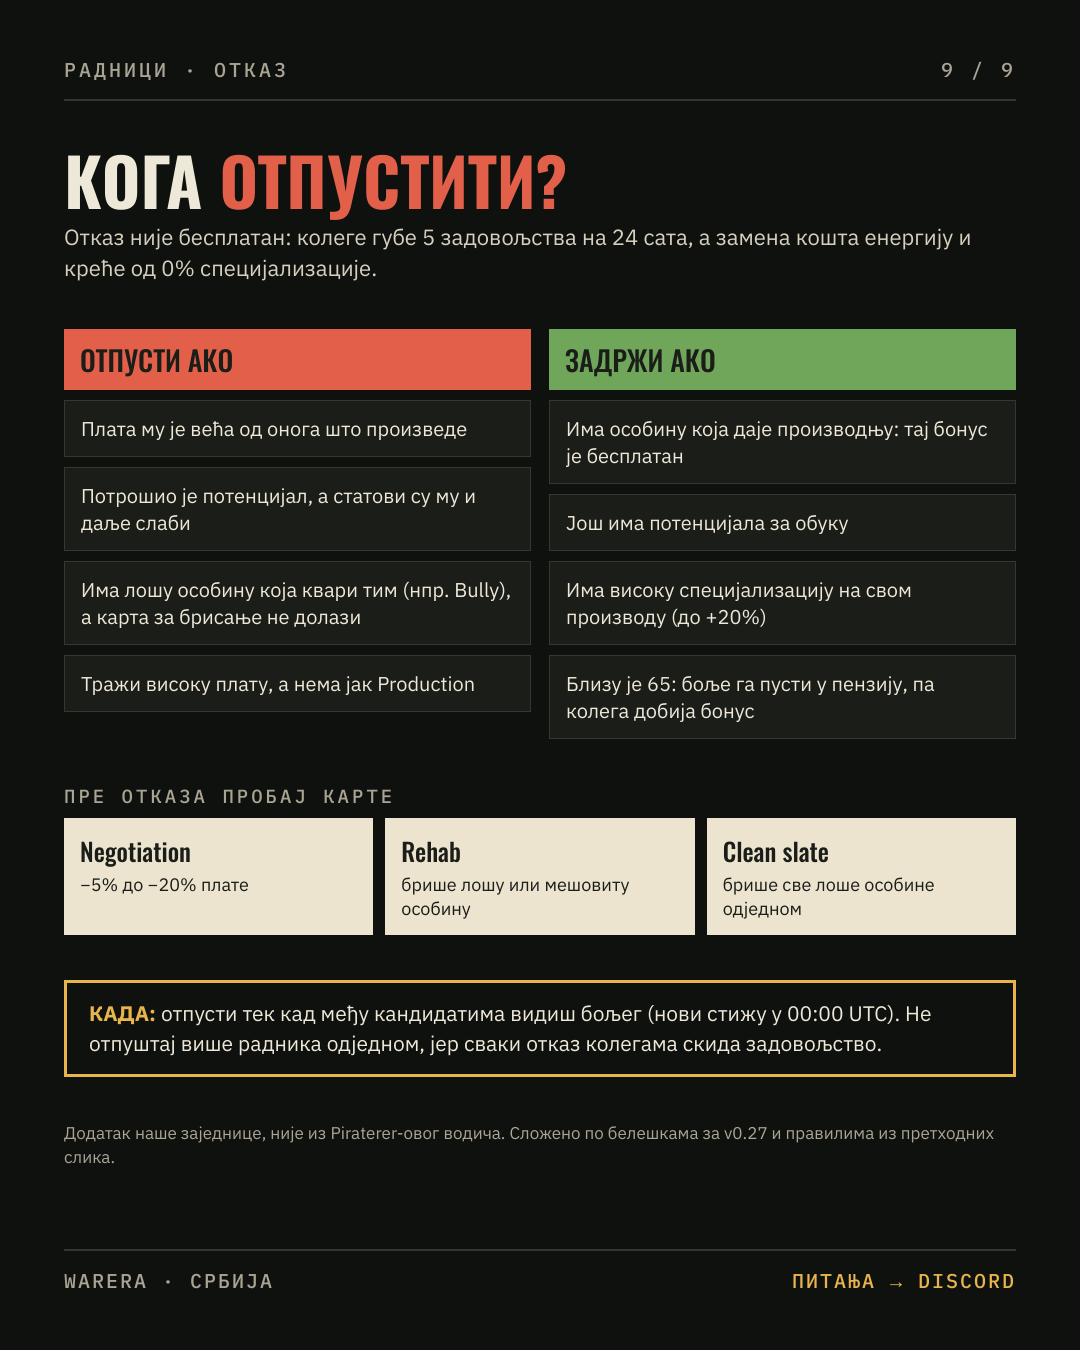
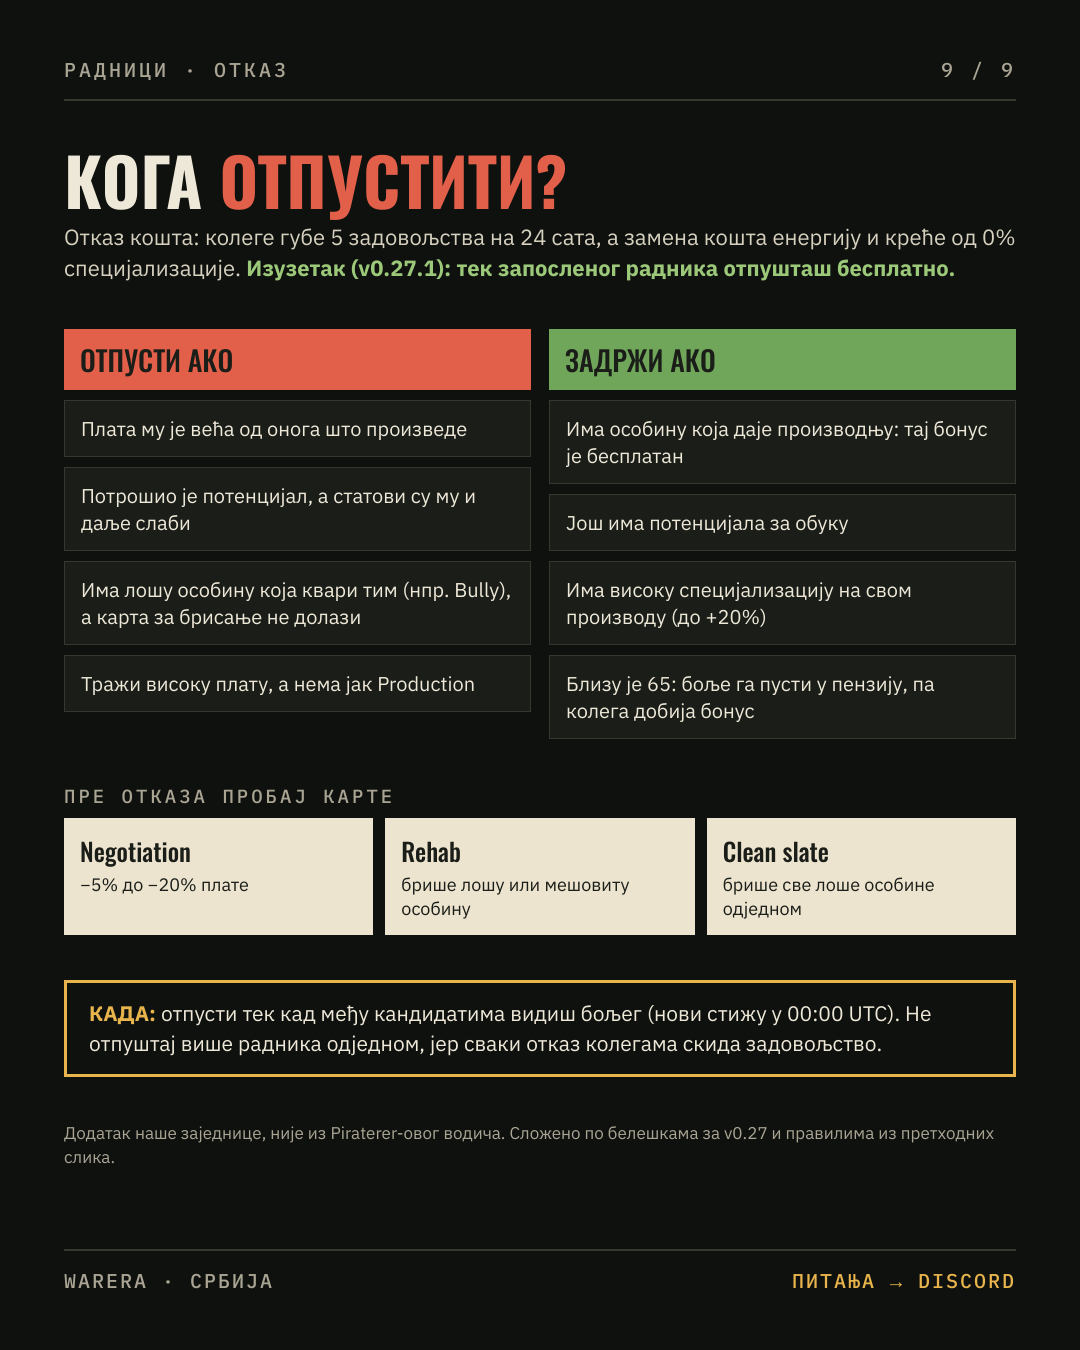
Zakrpa v0.27.1: bez smrti radnika, besplatan otkaz novog radnika
- Smrt radnika u biketama ugašena (delovi 03, 07, članak, slika 8)
- Otkaz tek zaposlenog radnika je besplatan (delovi 03, 04, 09, članak, slika 9)
- Događaji mogu odmah posle zapošljavanja (deo 03)

Claude-Session: https://claude.ai/code/session_01L1BRfphHGAoYFinPfNgA1E

Changed region(s): [[0.0611, 0.1556, 0.9472, 0.2178]]

diff --git a/03-deo-2-2-eko-bild-i-kompanije.md b/03-deo-2-2-eko-bild-i-kompanije.md
@@ -159,11 +159,11 @@
 
 **Управљање:** запослене можете премештати између својих компанија; са премијумом их можете и преименовати.
 
-**Отпуштање:** колеге добијају −5 задовољства на 24 сата.
+**Отпуштање:** колеге добијају −5 задовољства на 24 сата (од v0.27.1 отказ тек запосленог радника је бесплатан).
 
 **Давање отказа:** занемаривање никада не доводи до отказа. Само Ксенофоб (Xenophobe) који ради са другим националностима може да оде када је незадовољан.
 
-**Ризик:** битка у регији запосленог кошта га −5 задовољства и носи **1% ризика од смрти**.
+**Ризик:** битка у регији запосленог кошта га −5 задовољства. Смрт у биткама је угашена закрпом v0.27.1 (за сада).
 
 #### 2.8.9 Производња и задовољство \[v0.27\]
 
@@ -184,7 +184,7 @@
 | Порез на доходак | −1 по 1% пореза (потврђено у игри; белешке пре закрпе наводиле су 0,1) |
 | Премештен у другу компанију | −10 на 7 дана |
 | Колега отпуштен | −5 на 24 сата |
-| Битка у његовој регији | −5 (и 1% ризика од смрти) |
+| Битка у његовој регији | −5 |
 
 Задовољство се може подићи догађајима (2.8.11) и дневном бригом менаџера (+5 на 48 сати).
 
@@ -207,7 +207,7 @@
 - Око 1 дневно са 3 запослена, никада више од 3 дневно.
 - Шансе видите пре избора; Лидерство, задовољство и Срећа их побољшавају.
 - **Игноришите догађај 36 сати** и подразумевана опција се бира уместо вас.
-- Догађаје добијају само запослени запослени пре најмање 48 сати, највише један догађај сваки дневно, и само док се пријављујете бар на сваких 3 дана.
+- Од v0.27.1 догађаји могу да крену одмах после запошљавања (раније после 48 сати). Највише један догађај сваки дневно, и само док се пријављујете бар на сваких 3 дана.
 - Исходи укључују задовољство, бонусе, статистике, особине, кутије са алатом или одлазак запосленог.
 
 #### 2.8.12 Менаџери \[v0.27\]

diff --git a/clanci/radnici-v027.md b/clanci/radnici-v027.md
@@ -203,7 +203,7 @@
 
 ---
 
-## Пензија и смрт
+## Пензија
 
 Са 65 година радник одлази у пензију. Имате три избора:
 
@@ -211,7 +211,7 @@
 • **Пустите га:** један колега добија +1 на стат (на критичном успеху насумичну добру особину), а сви колеге бонус задовољства  
 • **Коцка:** колеге су незадовољне (−5 на 3 дана), али са срећом радник остаје још 10 година, потпуно обучен. Исплати се са високим Luck-ом
 
-Битка у региону где раде носи **1% ризика од смрти** радника.
+Битка у региону где раде више не убија раднике: закрпа v0.27.1 је угасила смрт у биткама (за сада).
 
 ---
 
@@ -231,7 +231,7 @@
 
 *Додатак наше заједнице, није из Piraterer-овог водича. Сложено по белешкама за v0.27 и правилима изнад.*
 
-Отказ није бесплатан: колеге губе **5 задовољства на 24 сата**, а замена кошта енергију и креће од 0% специјализације.
+Отказ кошта: колеге губе **5 задовољства на 24 сата**, а замена кошта енергију и креће од 0% специјализације. **Изузетак од v0.27.1:** тек запосленог радника отпуштате бесплатно, па лош избор одмах исправите.
 
 **Отпустите радника ако:**
 

diff --git a/04-deo-2-3-proizvodnja-trgovina-prestiz.md b/04-deo-2-3-proizvodnja-trgovina-prestiz.md
@@ -92,7 +92,7 @@
 - **Обучавајте свакодневно.** Једно извлачење по запосленом дневно; то је главни начин да их побољшате.
 - **Одговарајте на догађаје у року од 36 сати.** У супротном се подразумевана опција бира уместо вас.
 - **Не дозволите да се складиште напуни.** Пуно складиште зауставља производњу и смањује задовољство.
-- **Не отпуштајте импулсивно.** Колеге губе 5 задовољства на 24 сата.
+- **Не отпуштајте импулсивно.** Колеге губе 5 задовољства на 24 сата (од v0.27.1 отказ тек запосленог радника је бесплатан).
 - **Не премештајте запослене импулсивно.** Премештени запослени губи 10 задовољства на 7 дана.
 - **Пазите на порез.** Сваки 1% пореза на доходак кошта 1 задовољство, па 10% пореза значи око −10% учинка.
 - **Планирајте пензионисање.** Запослени старе 1 годину дневно и траже пензију са 65.

diff --git a/07-deo-3-3-bitke-bonusi-naredjenja.md b/07-deo-3-3-bitke-bonusi-naredjenja.md
@@ -31,7 +31,7 @@
 
 Свака регија може напасти било коју другу регију. Позиција на мапи није важна, нити ко поседује суседне регије, нити да ли је регија повезана са престоницом — једини услов је да борци буду у правој регији. Веза са престоницом важна је само за казну браниоца од −25% (види 3.10.7), а не за право напада.
 
-**\[v0.27\] Запослени и битке:** битка у регији у којој раде ваши запослени кошта их −5 задовољства и носи 1% ризика од смрти. Држање компанија у нашим матичним регијама, далеко од фронта, штити их.
+**\[v0.27\] Запослени и битке:** битка у регији у којој раде ваши запослени кошта их −5 задовољства (смрт у биткама је угашена у v0.27.1). Држање компанија у нашим матичним регијама, далеко од фронта, штити их.
 
 #### 3.9.4 Ранг-листе штете
 

diff --git a/09-deo-4-vj-turniri-kuldauni.md b/09-deo-4-vj-turniri-kuldauni.md
@@ -155,7 +155,7 @@
 | **Догађај запосленог** \[v0.27\] | подразумевана опција се бира после 36 сати | Одговорите на време |
 | **Уговор менаџера** \[v0.27\] | закључавање 24 сата после запошљавања | Ниједна страна не може да га раскине |
 | **Премештен запослени** \[v0.27\] | −10 задовољства на 7 дана; не може бити отпуштен 24 сата | Не премештајте запослене импулсивно |
-| **Отпуштен колега** \[v0.27\] | −5 задовољства колегама на 24 сата | Не отпуштајте импулсивно |
+| **Отпуштен колега** \[v0.27\] | −5 задовољства колегама на 24 сата; тек запослени се отпушта бесплатно (v0.27.1) | Не отпуштајте импулсивно |
 
 #### 4.4.2 Кулдауни Војне јединице
 
